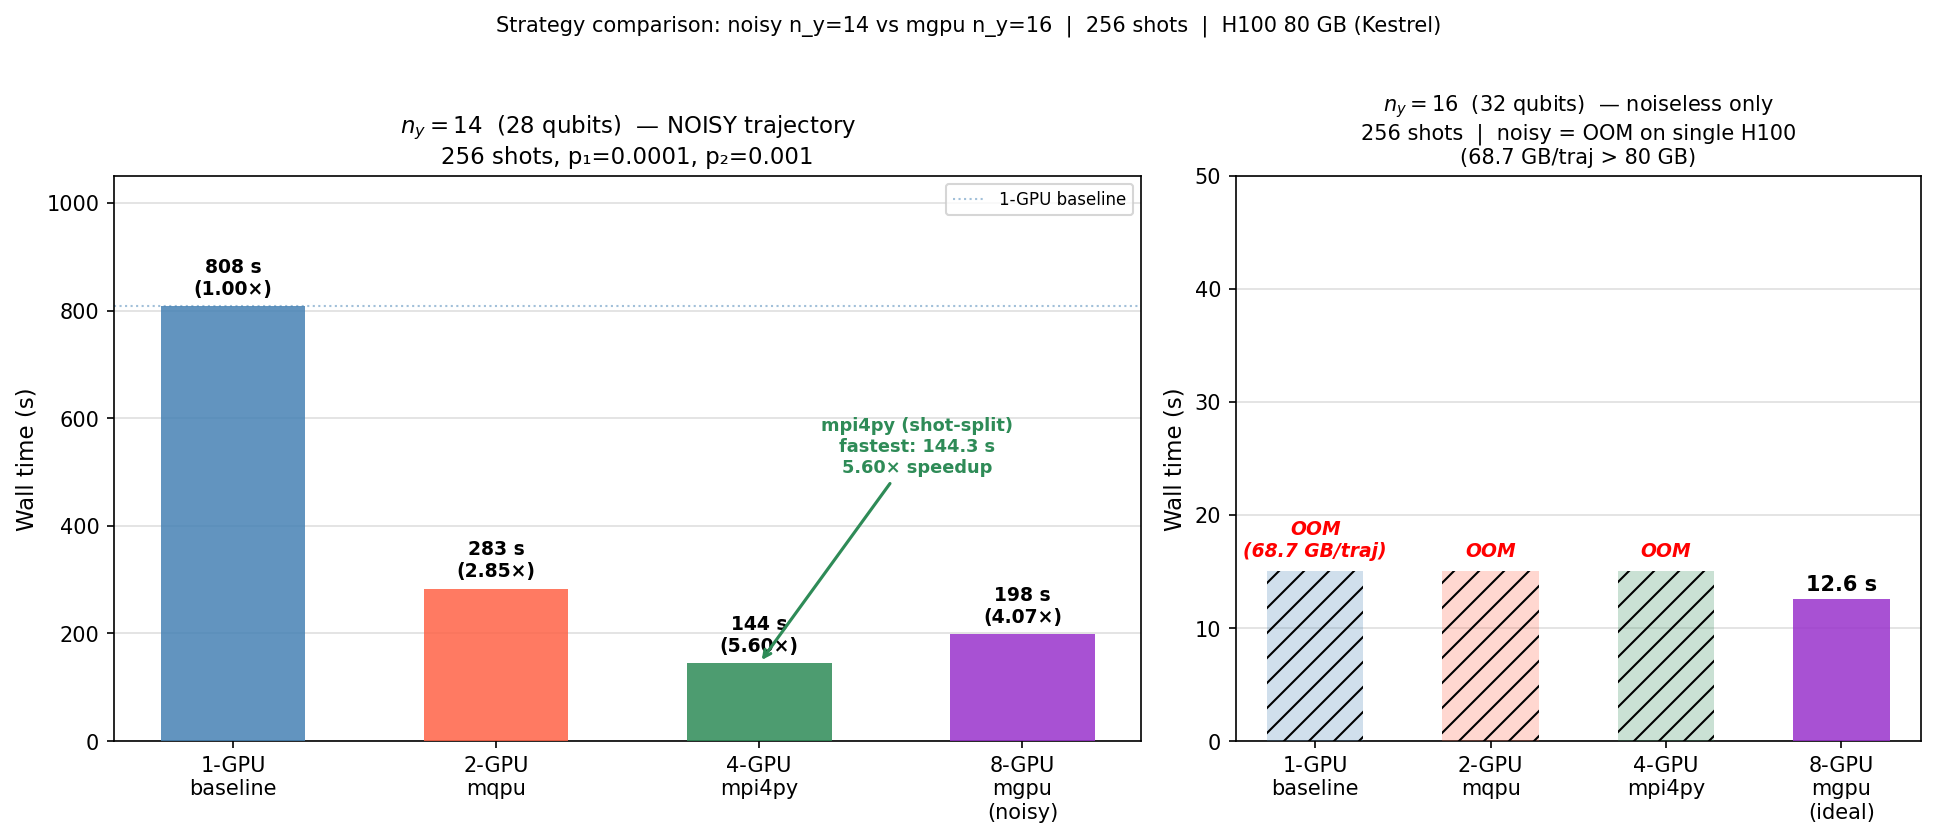
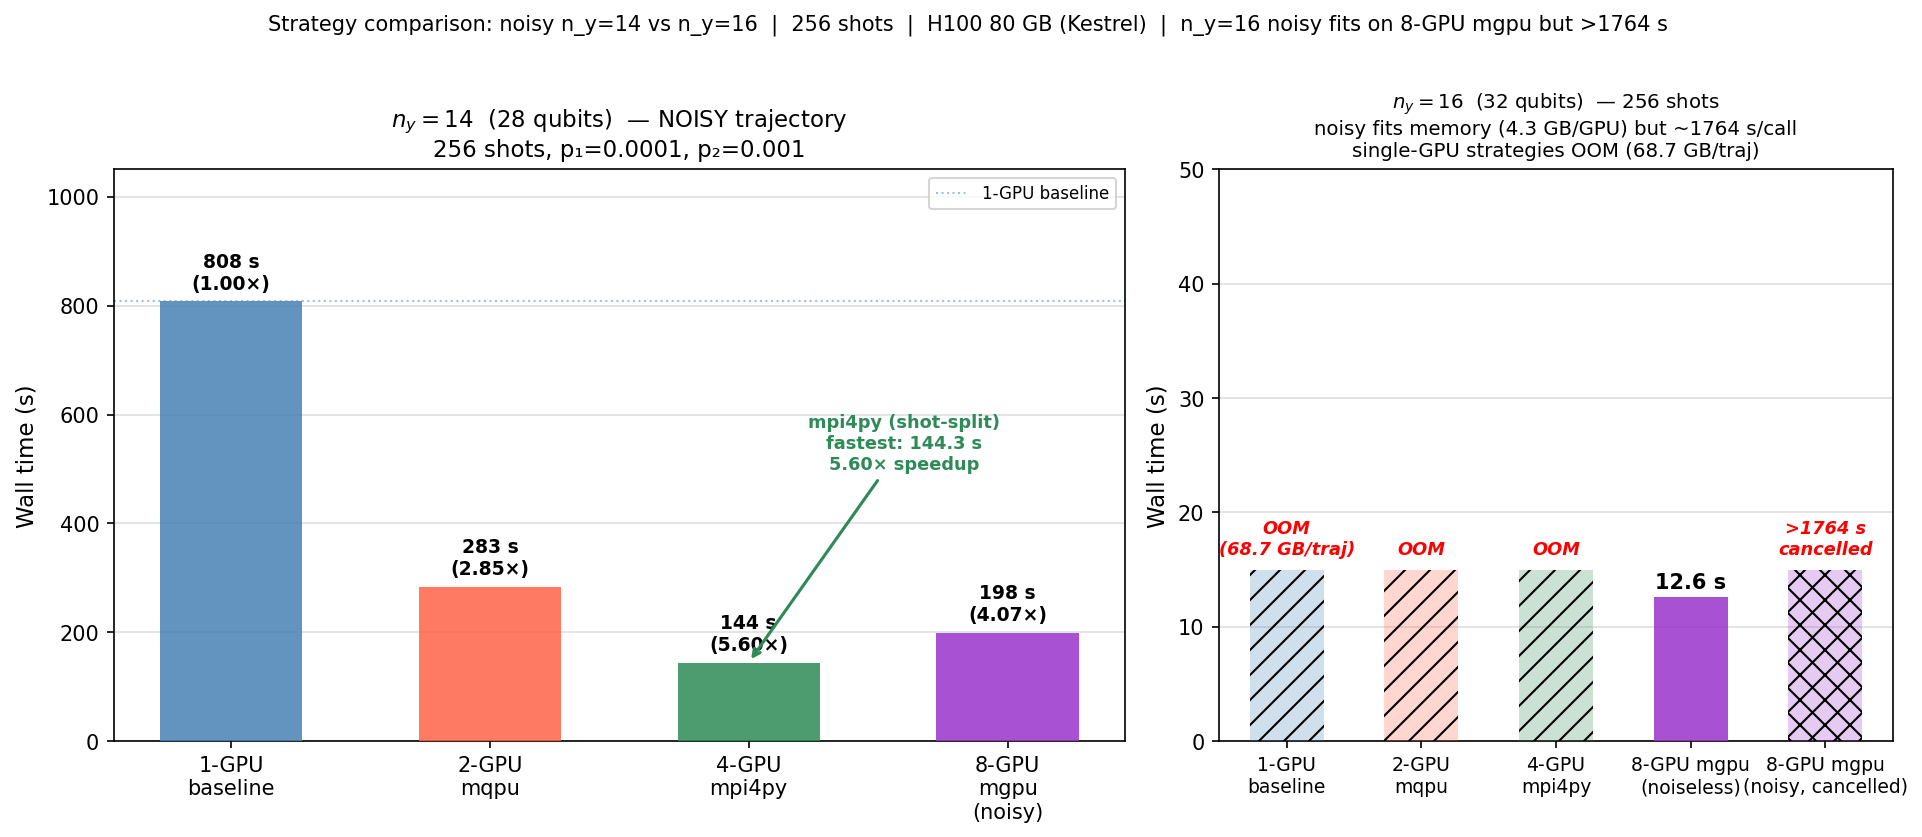
fix: n_y=16 noisy fits on mgpu but is too slow (>1764s), not OOM — update figure and report

diff --git a/qiskit_impl/parallelisation_report.py b/qiskit_impl/parallelisation_report.py
@@ -171,43 +171,45 @@ ax.annotate('mpi4py (shot-split)\nfastest: 144.3 s\n5.60× speedup',
 ax = axes2[1]
 
 strategies_16 = [
-    ('1-GPU\nbaseline',       None, 'OOM\n(68.7 GB/traj)'),
-    ('2-GPU\nmqpu',           None, 'OOM'),
-    ('4-GPU\nmpi4py',         None, 'OOM'),
-    ('8-GPU\nmgpu\n(ideal)',  12.6, None),
+    ('1-GPU\nbaseline',              None,   'OOM\n(68.7 GB/traj)'),
+    ('2-GPU\nmqpu',                  None,   'OOM'),
+    ('4-GPU\nmpi4py',                None,   'OOM'),
+    ('8-GPU mgpu\n(noiseless)',       12.6,   None),
+    ('8-GPU mgpu\n(noisy, cancelled)', None,  '>1764 s\ncancelled'),
 ]
 xs16 = np.arange(len(strategies_16))
-colors16 = ['steelblue', 'tomato', 'seagreen', 'darkorchid']
+colors16 = ['steelblue', 'tomato', 'seagreen', 'darkorchid', 'darkorchid']
 
 for i, (lbl, t, oom) in enumerate(strategies_16):
     if t is not None:
         b = ax.bar(i, t, color=colors16[i], alpha=0.85, width=0.55, zorder=3)
         ax.text(i, t + 0.4, f'{t:.1f} s', ha='center', va='bottom', fontsize=10, fontweight='bold')
     else:
-        # Draw a hatched "OOM" bar for visual clarity
-        ax.bar(i, 15, color=colors16[i], alpha=0.25, width=0.55, hatch='//', zorder=3)
-        ax.text(i, 16, oom, ha='center', va='bottom', fontsize=9,
+        # Draw a hatched bar for visual clarity
+        hatch = 'xx' if '>1764' in (oom or '') else '//'
+        ax.bar(i, 15, color=colors16[i], alpha=0.25, width=0.55, hatch=hatch, zorder=3)
+        ax.text(i, 16, oom, ha='center', va='bottom', fontsize=8.5,
                 color='red', style='italic', fontweight='bold')
 
 ax.set_xticks(xs16)
-ax.set_xticklabels([s[0] for s in strategies_16], fontsize=10)
+ax.set_xticklabels([s[0] for s in strategies_16], fontsize=9)
 ax.set_ylabel('Wall time (s)', fontsize=11)
-ax.set_title('$n_y = 16$  (32 qubits)  — noiseless only\n'
-             '256 shots  |  noisy = OOM on single H100\n'
-             '(68.7 GB/traj > 80 GB)', fontsize=10)
+ax.set_title('$n_y = 16$  (32 qubits)  — 256 shots\n'
+             'noisy fits memory (4.3 GB/GPU) but ~1764 s/call\n'
+             'single-GPU strategies OOM (68.7 GB/traj)', fontsize=9.5)
 ax.set_ylim(0, 50)
 ax.grid(True, axis='y', alpha=0.4, zorder=0)
 
 fig2.suptitle(
-    'Strategy comparison: noisy n_y=14 vs mgpu n_y=16  |  '
-    '256 shots  |  H100 80 GB (Kestrel)',
+    'Strategy comparison: noisy n_y=14 vs n_y=16  |  '
+    '256 shots  |  H100 80 GB (Kestrel)  |  '
+    'n_y=16 noisy fits on 8-GPU mgpu but >1764 s',
     fontsize=10, y=1.01)
 
 plt.tight_layout()
 out2 = os.path.join(SCRATCH_IMPL, 'parallelisation_mgpu_comparison.png')
 plt.savefig(out2, dpi=150, bbox_inches='tight')
 print(f'Plot saved -> {out2}')
-
 # Summary table
 print(f"\n{'n_y':>4}  {'qubits':>6}  {'1-GPU(s)':>9}  {'2-GPU(s)':>9}  "
       f"{'4-GPU(s)':>9}  {'Su_2x':>7}  {'Su_4x':>7}  {'Eff_2x':>7}  {'Eff_4x':>7}")

diff --git a/qiskit_impl/parallelisation_report.md b/qiskit_impl/parallelisation_report.md
@@ -151,8 +151,10 @@ Two panels:
    mpi4py (shot-split, 4 GPUs) is fastest at 144.3 s (5.60×); mgpu (8 GPUs,
    statevector-sharding) reaches 198.4 s (4.07×) — slower because shots run
    sequentially rather than in parallel.
-2. **n_y=16 (32 qubits)**: single-GPU strategies are OOM (68.7 GB/trajectory);
-   8-GPU mgpu is the only viable approach, completing in 12.6 s (noiseless).
+2. **n_y=16 (32 qubits)**: single-GPU strategies are OOM (68.7 GB/trajectory).
+   8-GPU mgpu noiseless completes in 12.6 s. 8-GPU mgpu noisy fits in memory
+   (4.3 GB/GPU) but each `sample_ansatz` call takes >1764 s (cancelled) —
+   trajectory simulation runs shots sequentially, not in parallel.
 
 ---
 